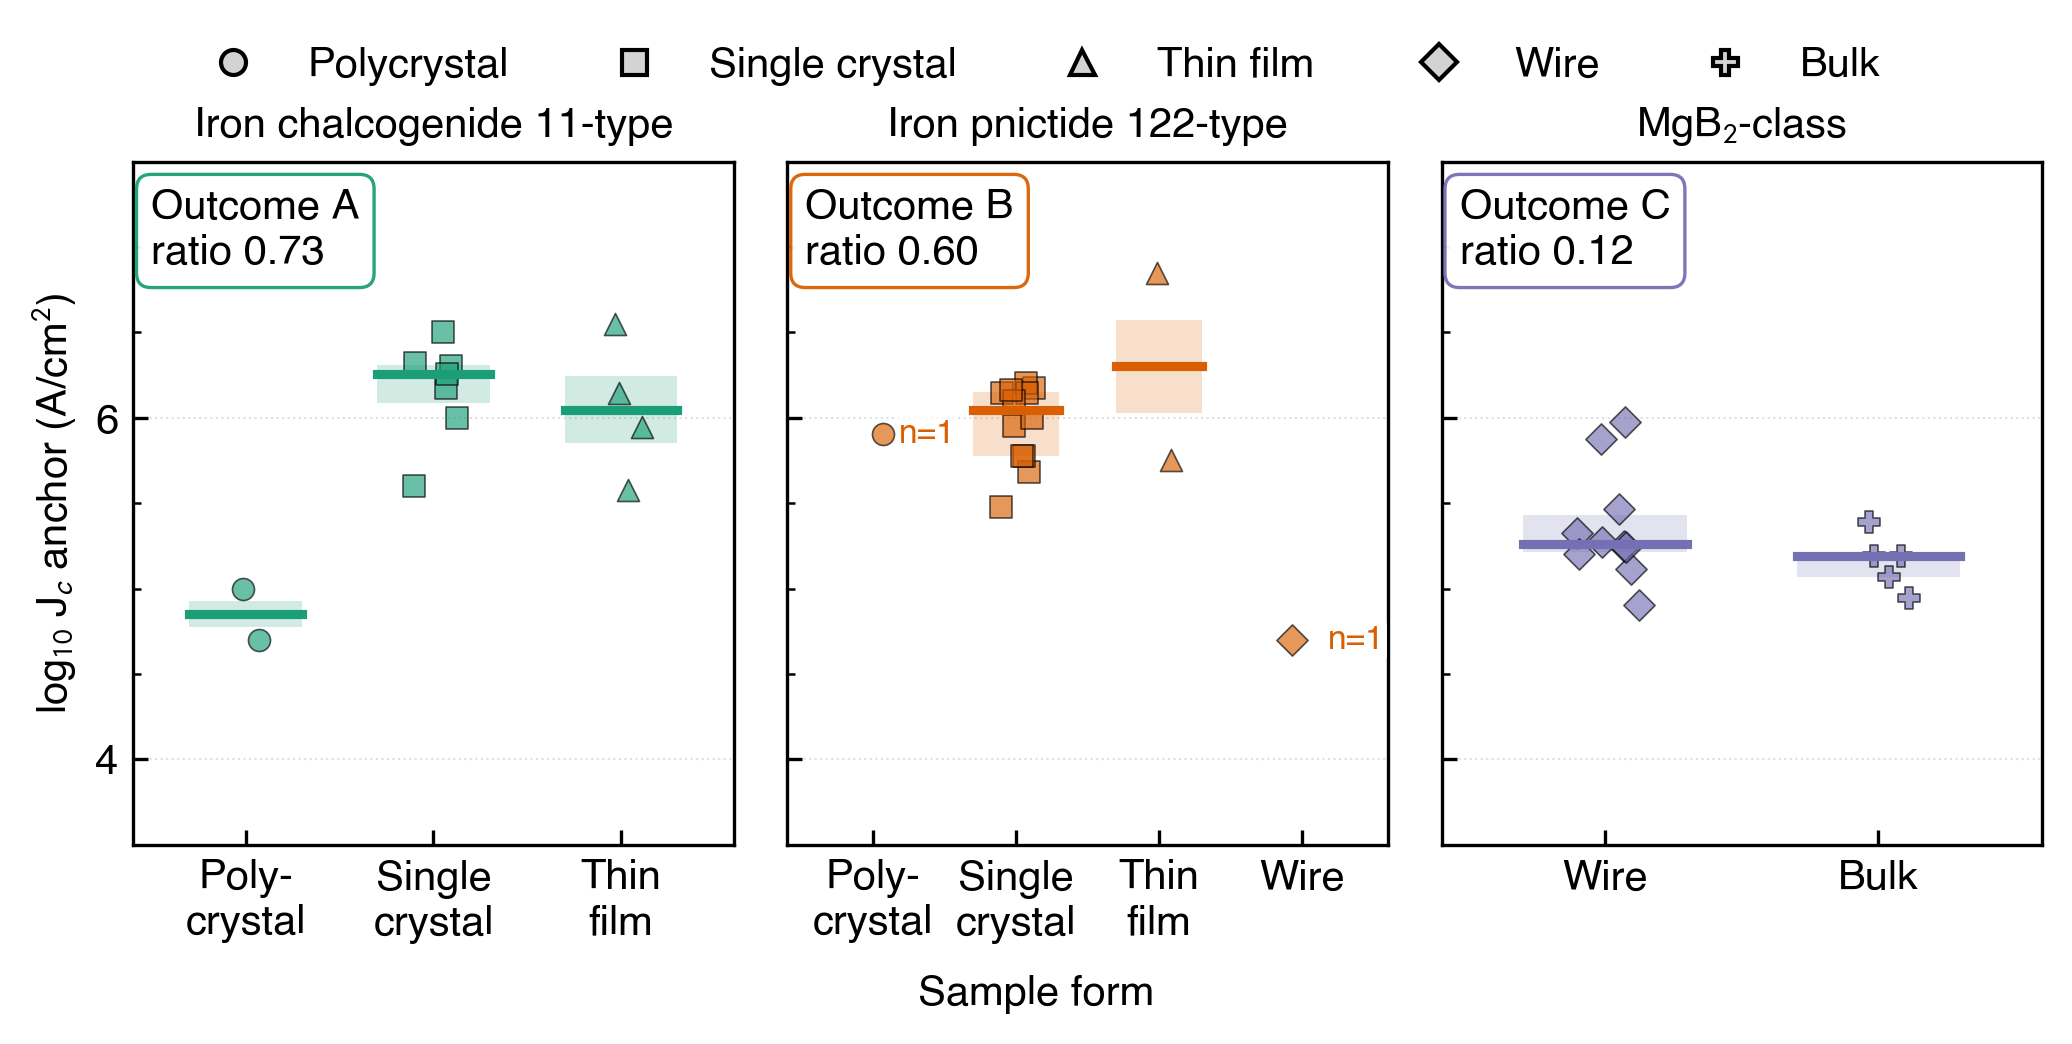
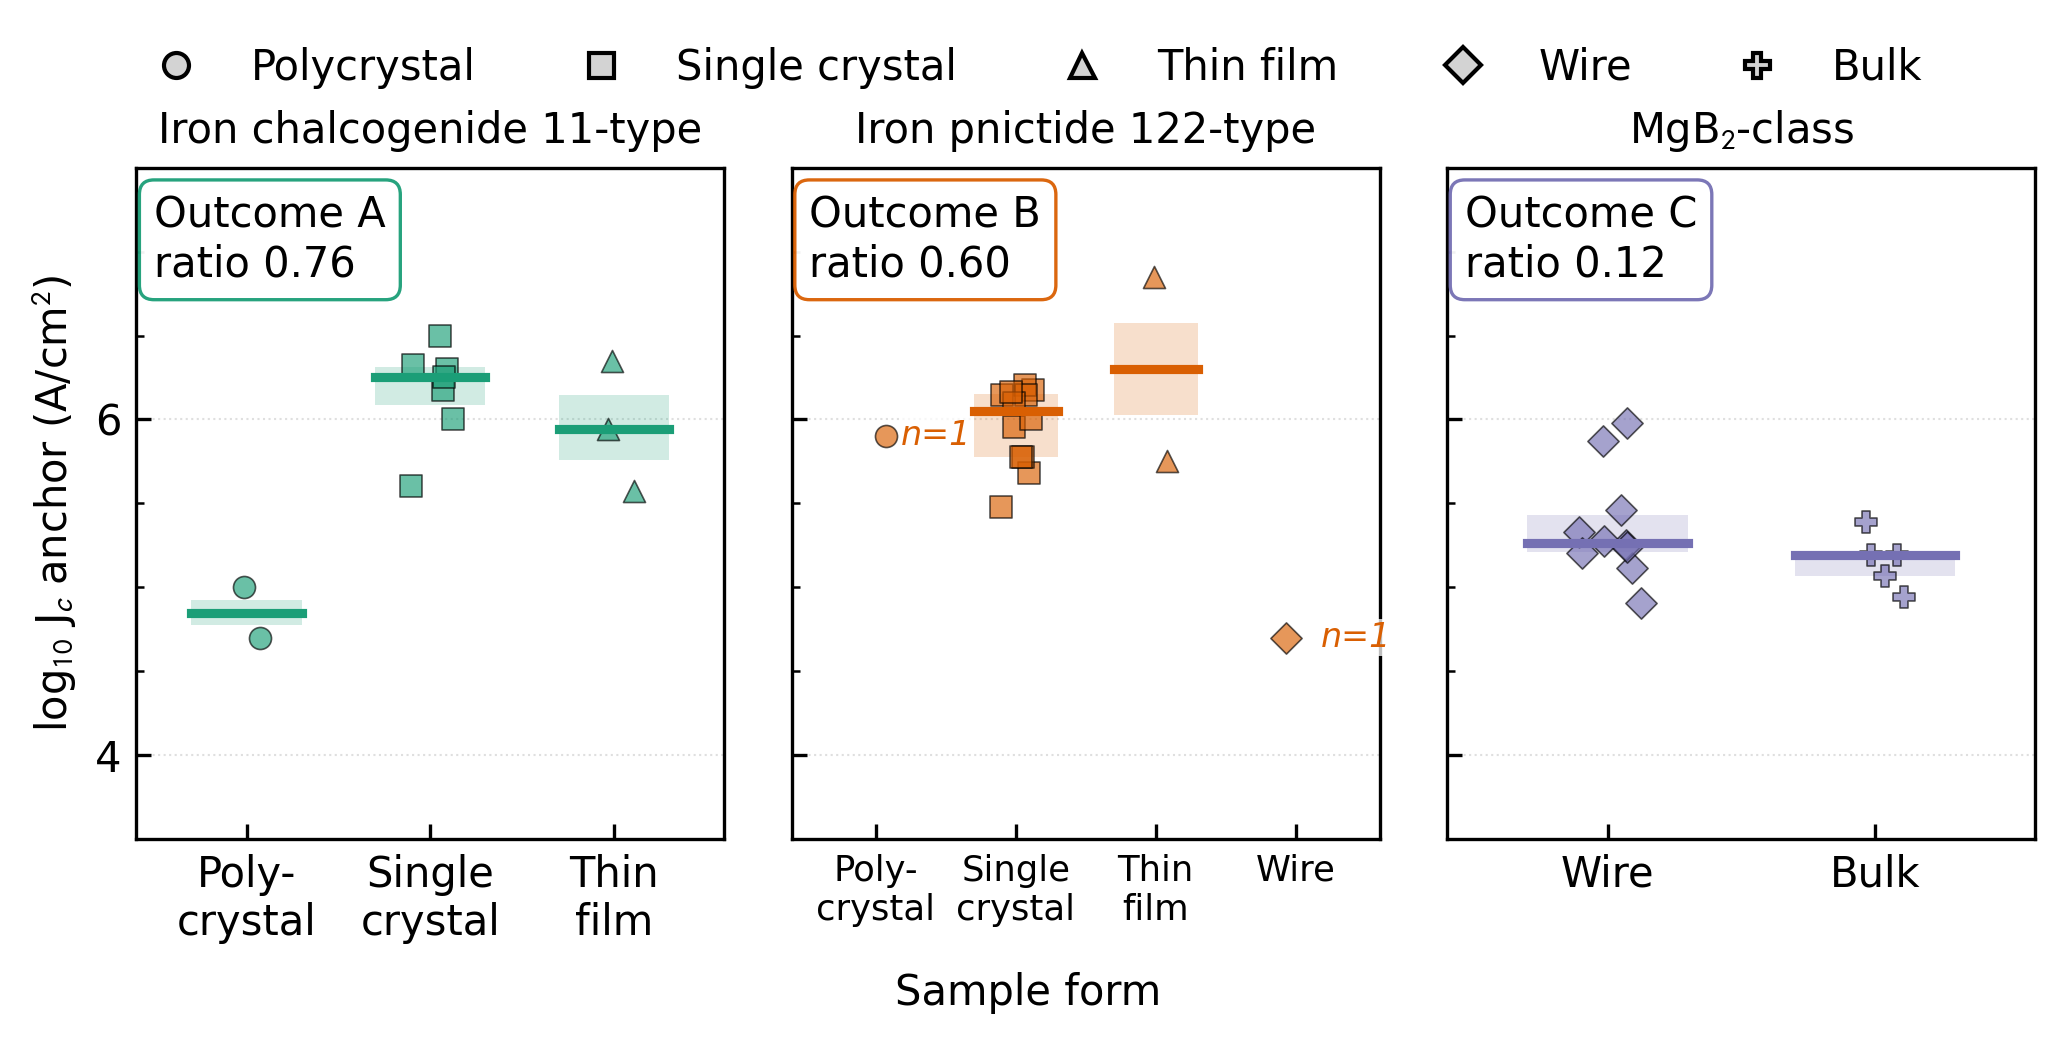
Make the deposit verifiable, and regenerate Figure 4
Referee A asked four times to see the data. verify_deposit.py prints the
cohort counts he asked for specifically, computed rather than quoted,
and asserts the deposit's internal consistency, exiting non-zero on
failure. On its first run it found three defects:

  provenance_table_fitcohort_full.csv carried sample_form='not
  recorded' for 10.1016/j.physb.2025.417755, which the anchor table
  records as single_crystal. Corrected. The other 31 'not recorded'
  rows are papers with no anchor rows, where the placeholder is honest.

  audit/withdrawn_records.csv listed only the Nb3Sn record. The
  manifest was written from rows removed in a given run, so re-running
  after a record was already gone dropped it. Rebuilt from the register
  so it documents both withdrawals.

  The first version of the conflict check collapsed to paper level and
  flagged mtphys.2022.100783, which legitimately contributes two sample
  forms. The check is now per sample.

figure_4_source.py could not run on a clean checkout: PREP = HERE.parent
resolved to the repository root while the anchor table is in data/, so
the deposited figure could not be regenerated from the deposited data.
Fixed, and Figure 4 regenerated from the corrected cohort. Its panels
now read 0.76, 0.60 and 0.12. A tick-label collision in the four-form
122 panel, which rendered as 'crystalcrystal', is fixed by scaling the
tick font with the number of forms.

README row counts were stale on three tables and are corrected, and the
[…]

diff --git a/analysis/verify_deposit.py b/analysis/verify_deposit.py
@@ -1,0 +1,177 @@
+#!/usr/bin/env python3
+"""
+verify_deposit.py
+
+Checks that this deposit is internally consistent and reproduces its own
+headline numbers, and prints the counts a reader needs to size the cohort.
+
+Referee A asked four separate times to see the data, and asked specifically for
+"the number of papers actually contributing Jc curves, the number of physical
+samples, the number of compounds". Those are printed below, computed rather than
+quoted, so no count in the manuscript rests on a number that exists only in
+prose.
+
+The consistency checks exist because this deposit has twice shipped in a state
+that disagreed with itself. A withdrawal was applied to the source tables and
+not to the derived decomposition, so the deposited decomposition described a
+cohort that no longer existed. A unit correction reached two fields out of four,
+leaving one table's two Jc columns a factor of a million apart and one sample
+labelled a thin film in one table and a wire in two others. Both are the kind of
+defect a reader finds in minutes and an author never sees, so they are asserted
+here rather than trusted.
+
+    python analysis/verify_deposit.py
+
+Exit status is non-zero if any check fails.
+
+Run from the repository root.
+"""
+import glob
+import os
+import sys
+
+import numpy as np
+import pandas as pd
+
+sys.path.insert(0, os.path.dirname(os.path.abspath(__file__)))
+from figure_4_source import (aggregate_per_physical_sample,      # noqa: E402
+                             compute_variance_decomposition)
+
+DATA = "data"
+ANCHOR = os.path.join(DATA, "phase_3_p31_jc_anchor_per_paper.csv")
+DERIVED = os.path.join(DATA, "phase_3_p31_variance_decomposition.csv")
+BANDS = "A > 0.7 | B 0.3-0.7 | C < 0.3"
+
+failures = []
+
+
+def check(label, ok, detail=""):
+    print("   %-58s %s%s" % (label, "ok" if ok else "FAILED",
+                             ("   " + detail) if detail else ""))
+    if not ok:
+        failures.append(label)
+
+
+def band(v):
+    return "A" if v > 0.7 else ("B" if v >= 0.3 else "C")
+
+
+def main():
+    if not os.path.isdir(DATA):
+        sys.exit("run from the repository root")
+    a = pd.read_csv(ANCHOR)
+    agg = aggregate_per_physical_sample(a)
+
+    print("cohort size, computed from %s\n" % ANCHOR)
+    print("   papers contributing Jc anchor rows   %4d" % a.paper_id.nunique())
+    print("   physical samples after aggregation   %4d" % len(agg))
+    print("   anchor rows                          %4d" % len(a))
+    print("   distinct compounds                   %4d" % a.compound_formula.nunique())
+    print("   substructure families                %4d" % a.substructure.nunique())
+    print("   sample forms                         %4d   %s"
+          % (a.sample_form.nunique(), ", ".join(sorted(a.sample_form.unique()))))
+
+    print("\ndeposited table sizes\n")
+    for f in sorted(glob.glob(os.path.join(DATA, "*.csv"))):
+        print("   %-52s %6d" % (os.path.basename(f), sum(1 for _ in open(f)) - 1))
+
+    print("\npre-registered classification, %s\n" % BANDS)
+    vd = compute_variance_decomposition(agg)
+    for _, r in vd[vd.scope == "per_substructure"].iterrows():
+        if pd.isna(r.ratio_between_total):
+            print("   %-24s %4d  single sample form, no decomposition"
+                  % (r.substructure, r.n_papers))
+        else:
+            print("   %-24s %4d  ratio %.4f   outcome %s"
+                  % (r.substructure, r.n_papers, r.ratio_between_total,
+                     band(r.ratio_between_total)))
+    ax = vd[vd.scope == "aggregate_all"].iloc[0]
+    print("   %-24s %4d  ratio %.4f   pooled across families"
+          % ("aggregate", ax.n_papers, ax.ratio_between_total))
+
+    print("\nconsistency checks\n")
+
+    dep = pd.read_csv(DERIVED)
+    dx = dep[dep.scope == "aggregate_all"].iloc[0]
+    check("derived decomposition reproduces from its own source",
+          int(dx.n_papers) == int(ax.n_papers)
+          and abs(dx.ratio_between_total - ax.ratio_between_total) < 1e-12,
+          "file %d/%.6f vs recomputed %d/%.6f"
+          % (dx.n_papers, dx.ratio_between_total, ax.n_papers, ax.ratio_between_total))
+
+    dep_fams = set(dep[dep.scope == "per_substructure"].substructure)
+    check("derived families match the source table's families",
+          dep_fams == set(a.substructure.unique()),
+          "only in derived: %s" % (dep_fams - set(a.substructure.unique()) or "none"))
+
+    ok = np.allclose(a.Jc_anchor_A_per_cm2, 10 ** a.log10_Jc_anchor)
+    check("Jc_anchor_A_per_cm2 equals 10^log10_Jc_anchor", ok)
+
+    # A paper may legitimately contribute several samples of different forms, so
+    # the conflict test is per (record, sample), not per record. Only one paper
+    # in this cohort contributes two forms, and collapsing to the paper level
+    # flagged it as a defect when it is the intended structure.
+    seen = {}
+    for f in glob.glob(os.path.join(DATA, "*.csv")):
+        d = pd.read_csv(f, low_memory=False)
+        if "sample_form" not in d.columns:
+            continue
+        key = next((c for c in ("paper_id", "arxiv_id", "identifier")
+                    if c in d.columns), None)
+        sid = next((c for c in ("sample_id", "sample_identifier")
+                    if c in d.columns), None)
+        if key is None:
+            continue
+        for _, r in d.iterrows():
+            pid = str(r[key]).replace("elsevier_", "").replace("springer_", "")
+            pid = pid.replace("_", "").replace("/", "").replace(".", "").lower()
+            sample = str(r[sid]).strip().lower() if sid else ""
+            seen.setdefault((pid, sample), set()).add(str(r.sample_form))
+    conflicting = {k: v for k, v in seen.items()
+                   if len({x for x in v if x != "nan"}) > 1}
+    check("each sample carries one form across all tables",
+          not conflicting, "conflicts: %s" % (list(conflicting)[:3] or "none"))
+
+    placeholders = set()
+    for f in glob.glob(os.path.join(DATA, "*.csv")):
+        d = pd.read_csv(f, low_memory=False)
+        if "sample_form" not in d.columns:
+            continue
+        for v in set(d.sample_form.dropna().astype(str)):
+            if v.lower() in ("unknown", "not recorded", "unspecified", "n/a", "none"):
+                # A placeholder is only a defect where the record actually feeds
+                # the fitted cohort. Provenance rows for papers that contribute
+                # no anchor is a legitimate "we never determined this".
+                ids = d.loc[d.sample_form == v]
+                key = next((c for c in ("paper_id", "arxiv_id", "identifier")
+                            if c in d.columns), None)
+                if key and any(a.paper_id.str.contains(str(i).split("/")[-1],
+                                                       regex=False).any()
+                               for i in ids[key]):
+                    placeholders.add((os.path.basename(f), v))
+    check("no placeholder sample_form on a record in the fitted cohort",
+          not placeholders, "%s" % (sorted(placeholders) or "none"))
+
+    check("no sample_form is the placeholder 'unknown'",
+          "unknown" not in set(a.sample_form),
+          "a form label must name a form, not the absence of one")
+
+    withdrawn = os.path.join("audit", "withdrawn_records.csv")
+    if os.path.exists(withdrawn):
+        w = pd.read_csv(withdrawn)
+        ids = set(w.identifier)
+        present = [i for i in ids
+                   if a.paper_id.str.contains(i.split("/")[-1], regex=False).any()]
+        check("no withdrawn record survives in the anchor table",
+              not present, "withdrawn: %s" % ", ".join(sorted(ids)))
+
+    print()
+    if failures:
+        print("%d check(s) FAILED: %s" % (len(failures), "; ".join(failures)))
+        return 1
+    print("all checks passed")
+    return 0
+
+
+if __name__ == "__main__":
+    sys.exit(main())

diff --git a/analysis/figure_4_source.py b/analysis/figure_4_source.py
@@ -41,9 +41,13 @@ import pandas as pd
 import matplotlib.pyplot as plt
 
 HERE = Path(__file__).resolve().parent
-PREP = HERE.parent
-JC_ANCHOR_CSV = PREP / "phase_3_p31_jc_anchor_per_paper.csv"
-OUT = HERE / "figure_4_variance_decomposition.png"
+ROOT = HERE.parent
+# The anchor table and the figure live in data/ and figures/, not beside this
+# script. The previous PREP = HERE.parent form resolved to the repository root
+# and made load_cohort() and main() raise FileNotFoundError on a clean checkout,
+# so the deposited figure could not be regenerated from the deposited data.
+JC_ANCHOR_CSV = ROOT / "data" / "phase_3_p31_jc_anchor_per_paper.csv"
+OUT = ROOT / "figures" / "figure_4_variance_decomposition.png"
 
 plt.rcParams.update({
     "font.family": "Helvetica",
@@ -310,8 +314,15 @@ def panel_one_substructure(ax, sub_df: pd.DataFrame, sub: str,
 
     # Cosmetics
     ax.set_xticks(list(x_positions.values()))
+    # SAMPLE_FORM_DISPLAY already carries the line breaks. The 122 panel packs
+    # four forms into the same width the others use for two or three, and at a
+    # fixed 10 pt the second lines of "Poly-/crystal" and "Single/crystal" ran
+    # into each other and rendered as "crystalcrystal". Scale the tick font with
+    # the number of forms rather than wrapping, which would only add a third
+    # line to labels that are already two.
+    tick_fs = 10 if len(present_forms) <= 3 else 8.5
     ax.set_xticklabels([SAMPLE_FORM_DISPLAY[sf] for sf in present_forms],
-                       rotation=0, fontsize=10)
+                       rotation=0, fontsize=tick_fs, linespacing=1.2)
     ax.set_xlim(-0.6, len(present_forms) - 0.4)
     ax.set_ylim(y_min, y_max)
     ax.set_title(SUB_LABELS[sub])

diff --git a/README.md b/README.md
@@ -18,13 +18,58 @@ exists only in the text.
     audit/     reporting-layer screens and robustness checks
     figures/   figure source artwork as published
 
+## Verifying this deposit
+
+    python analysis/verify_deposit.py
+
+prints the cohort counts, the per-substructure classification, and a set of
+consistency checks, exiting non-zero if any fails. Run it before trusting any
+number here. It exists because this deposit has twice shipped disagreeing with
+itself: a withdrawal that was applied to the source tables and not to the
+derived decomposition, and a unit correction that reached two fields out of
+four. Both are invisible to an author reading the prose and obvious to a reader
+running the code.
+
+Current cohort, computed rather than quoted:
+
+| quantity | value |
+|---|---:|
+| papers contributing Jc anchor rows | 37 |
+| physical samples after aggregation | 71 |
+| anchor rows | 107 |
+| distinct compounds | 35 |
+| substructure families | 8 |
+| sample forms | 5 |
+
+## Withdrawn and corrected records
+
+Two records are withdrawn, both on source-verification grounds, and both
+documented with their reason in `audit/withdrawn_records.csv`:
+
+- `10.1016/0921-4534(94)00021-2` recorded a compound and a 134 K anchor that do
+  not appear in the source paper.
+- `10.1016/S0011-2275(97)00151-3` recorded Kramer currents in A^0.5 T^0.25 as
+  critical current densities. That is a different physical quantity, not a
+  mis-scaled one.
+
+Corrections applied, each traced to the source paper's own description:
+`10.1038/s41598-022-24044-5` units and sample form; `10.1016/j.physc.2009.05.098`,
+`10.1016/j.physc.2011.02.004` and `10.1016/j.jallcom.2023.170384` sample form.
+`analysis/withdraw_records.py` and `analysis/apply_unit_corrections.py` apply
+these and regenerate everything downstream in the same run.
+
+`audit/extraction_integrity.csv` reports a screen over every per-paper
+extraction, and `audit/permutation_paper_clustered.csv` reports the sample-form
+permutation test under a null that permutes at the paper level rather than the
+record level. Both are read in the Supplemental Material.
+
 ## data/
 
 | file | rows | what one row is |
 |---|---:|---|
-| `phase_3_p31_jc_anchor_per_paper.csv` | 110 | one critical-current anchor, per paper per sample per isotherm |
-| `phase_3_p31_variance_decomposition.csv` | 12 | the sample-form variance decomposition, per substructure |
-| `phase_3_form3_fits_partial_cohortB_v2.csv` | 186 | one field-axis Form 3 fit, with both critical-field values and the provenance tier |
+| `phase_3_p31_jc_anchor_per_paper.csv` | 107 | one critical-current anchor, per paper per sample per isotherm |
+| `phase_3_p31_variance_decomposition.csv` | 9 | the sample-form variance decomposition, per substructure |
+| `phase_3_form3_fits_partial_cohortB_v2.csv` | 180 | one field-axis Form 3 fit, with both critical-field values and the provenance tier |
 | `phase_3_p44_post_UCLA_beta_T_fits.csv` | 419 | one temperature-axis Form 3 fit |
 | `phase_3_p47_compound_leave_out_MAE.csv` | — | compound leave-one-out validation results |
 | `phase_3_p57_de_novo_predictions.csv` | 2151 | one candidate at one grid point, with its refusal code or its prediction |
